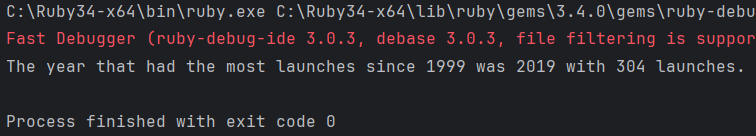
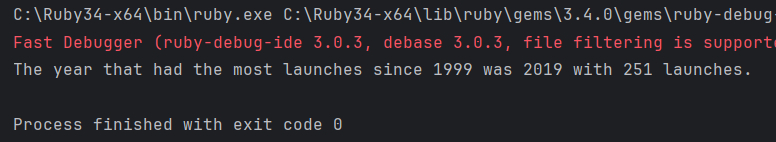
Major update: was not filtering out duplicates before; had to use cell's toString to create keys and use the cell object as value in the hash, then updated all methods to reflect this. Updated README.md to reflect new results caused by this.

diff --git a/main/Ruby/cell.rb b/main/Ruby/cell.rb
@@ -39,7 +39,15 @@ class Cell
     @launch_announced = launch_announced[/\b\d{4}\b/]&.to_i # Captures first occurrence of 4-digit year, if any.
     @launch_status = launch_status[/(?:Discontinued|Cancelled|Available\. Released \d{4})/]
     # Captures "Discontinued", "Cancelled", and "Available. Released <4-digit year>", ignores later characters.
-    @launch_year = launch_status[/\d{4}/]# grabs the first four-digit year from launch status
+    if (@launch_status != "Discontinued") && (@launch_status != "Cancelled")
+      @launch_year = @launch_status.to_s[/\d{4}/]# grabs the first four-digit year from launch status
+    elsif @launch_status == "Discontinued"
+      if match = launch_announced.match(/Released .*?(\b\d{4}\b)/)
+        @launch_year = match[1]
+      else
+        @launch_year = @launch_announced
+      end
+    end
 =begin
     if launch_year.nil?
       puts "year nil because status is #{launch_status}"
@@ -57,25 +65,26 @@ class Cell
     @features_sensors = features_sensors[/(?=.*[A-Za-z]).+/]# Allows all strings that contain at least one letter
     @platform_os = platform_os[/(?=.*[A-Za-z]).+/]# Allows all strings that contain at least one letter
 
-    @@cell_data[self] = oem
+    @@cell_data[self.toString] = self
     
   end
 
   def toString
-    puts "OEM: #{@oem}, Model: #{@model}, Launch_Announced: #{@launch_announced}, Launch_Status: #{@launch_status},
+    str = "OEM: #{@oem}, Model: #{@model}, Launch_Announced: #{@launch_announced}, Launch_Status: #{@launch_status},
 body_dimensions: #{@body_dimensions}, body_weight: #{@body_weight}, body_sim: #{@body_sim}, display_type: #{@display_type},
 display_size: #{@display_size}, display_resolution: #{@display_resolution}, features_sensors: #{@features_sensors},
 platform_os: #{@platform_os}"
+    return str
   end
 
   # Class methods to find the average of Launch_Announced, body_weight, and display_size:
 
-  # Puts the keys (Cell objects, each called a phone here) into an array if @launch_announced is not nil (.compact),
+  # Puts the values (Cell objects, each called a phone here) into an array if @launch_announced is not nil (.compact),
   # then checks if the array is not empty and divides the sum of the keys in float form by the size of the array.
   def Cell.find_average_launch_announced
-    keys = @@cell_data.keys.map{|phone| phone.launch_announced}.compact
-    if keys.any?
-      avg_launch = keys.sum.to_f / keys.size
+    values = @@cell_data.values.map{|phone| phone.launch_announced}.compact
+    if values.any?
+      avg_launch = values.sum.to_f / values.size
       avg_launch = avg_launch.to_i
       puts "Average year that launch was announced: #{avg_launch}"
     else
@@ -83,12 +92,12 @@ platform_os: #{@platform_os}"
     end
   end
 
-  # Puts the keys (Cell objects, each called a phone here) into an array if @body_weight is not nil (.compact),
-  # then checks if the array is not empty and divides the sum of the keys in float form by the size of the array.
+  # Puts the values (Cell objects, each called a phone here) into an array if @body_weight is not nil (.compact),
+  # then checks if the array is not empty and divides the sum of the values in float form by the size of the array.
   def Cell.find_average_weight
-    keys = @@cell_data.keys.map{|phone| phone.body_weight}.compact
-    if keys.any?
-      avg_weight = keys.sum.to_f / keys.size
+    values = @@cell_data.values.map{|phone| phone.body_weight}.compact
+    if values.any?
+      avg_weight = values.sum.to_f / values.size
       puts "Average weight: #{avg_weight.round(2)}"
     else
       puts "No body weight found"
@@ -96,11 +105,11 @@ platform_os: #{@platform_os}"
   end
 
   # Puts the keys (Cell objects, each called a phone here) into an array if @display_size is not nil (.compact),
-  # then checks if the array is not empty and divides the sum of the keys in float form by the size of the array.
+  # then checks if the array is not empty and divides the sum of the values in float form by the size of the array.
   def Cell.find_average_display_size
-    keys = @@cell_data.keys.map{|phone| phone.display_size}.compact
-    if keys.any?
-      avg_display_size = keys.sum.to_f / keys.size
+    values = @@cell_data.values.map{|phone| phone.display_size}.compact
+    if values.any?
+      avg_display_size = values.sum.to_f / values.size
       puts "Average display size: #{avg_display_size.round(2)}"
     else
       puts "No display size found"
@@ -113,7 +122,7 @@ platform_os: #{@platform_os}"
     max_avg = 0
     max_oem = ""
     oem_groups = Hash.new{|h,k| h[k] = []} # creates a new hash with OEMs as key and an array of weights as value
-    @@cell_data.each_key do |phone| # loop through the cell_data by key (Cell object)
+    @@cell_data.each_value do |phone| # loop through the cell_data by key (Cell object)
       next unless phone.body_weight # skips each phone if body_weight is nil
       oem_groups[phone.oem] << phone.body_weight # enters body_weight into the array for the OEM
     end
@@ -133,7 +142,7 @@ platform_os: #{@platform_os}"
   # Give me the oem and models.
   def Cell.announced_vs_released()
     dif = Array.new
-    @@cell_data.each_key do |phone|
+    @@cell_data.each_value do |phone|
       next unless phone.launch_announced
       next unless phone.launch_year
       if phone.launch_announced.to_i != phone.launch_year.to_i
@@ -150,7 +159,7 @@ platform_os: #{@platform_os}"
   def Cell.count_of_features_sensors
     count_one = 0 # The count of phones with only one sensor
     count_multiple = 0 # The count of phones with multiple sensors, for debugging purposes only
-    @@cell_data.each_key do |phone| # looping through cell_data
+    @@cell_data.each_value do |phone| # looping through cell_data
       next unless phone.features_sensors # filters out nil, but all phones have valid features_sensors in cells.csv
       str = phone.features_sensors.to_s.split(",") # array of features_sensors split by ","
       if str.length == 1
@@ -168,7 +177,7 @@ platform_os: #{@platform_os}"
     max_year = 0
     max_count = 0
     years = Hash.new{|h,k| h[k] = 0} # new hash with years as key and count as value, default being 0 instead of nil
-    @@cell_data.each_key do |phone| # looping through cell_data
+    @@cell_data.each_value do |phone| # looping through cell_data
       next unless phone.launch_announced # skip phone if launch_year is nil
       years[phone.launch_announced] += 1 # increment value stored in the key by 1
     end
@@ -190,11 +199,11 @@ CSV.foreach("cells.csv", headers: true) do |row|
   vals += [""] * (12 - vals.size)
   Cell.new(*vals[0...12])
 end
-Cell.count_of_features_sensors
+#Cell.count_of_features_sensors
 #Cell.count_of_launch_years
 #Cell.find_average_launch_announced
 #Cell.find_average_weight
 #Cell.find_average_display_size
 #Cell.avg_weight_by_oem
 #Cell.announced_vs_released
-# puts Cell.cell_data.size
+#puts Cell.cell_data.size

diff --git a/README.md b/README.md
@@ -56,43 +56,36 @@ for that.
 #### What company (oem) has the highest average weight of the phone body?
 HP had the highest average weight (453.6 grams).
 
-Code used to find this answer:
-
-![A screenshot of the code of the Cell.avg_weight_by_oem method](avg_weight_by_oem_code.png)
-
 Output:
 
 ![A screenshot showing the output, "The company with the highest average weight is HP at 453.6 grams."](avg_weight_by_oem_output.png)
 
 #### Were there any phones that were announced in one year and released in another? What are they? Give me the oem and models.
-The Motorola One Hyper, the Motorola Razr 2019, the Xiaomi Redmi K30 5G, and the Xiaomi Mi Mix Alpha were all
-announced in 2019 but launched in 2020.
+Mitac: the MIO Leap G50 and MIO Leap K1 were announced in  2008, launched in 2009.
 
-Code used to find this answer:
+Motorola: the One Hyper and Razr 2019 were announced in 2019, launched in 2020; the XT701 was announced
+in 2009, launched in 2010.
 
-![A screenshot of the code for Cell.announced_vs_released](announced_released_code.png)
+Sharp: the AQUOS 941SH and 940SH were announced in 2009, launched in 2010.
+
+Xiaomi: the Redmi K30 5G was announced in 2019, launched in 2020.
+
 
 Output:
 
-![A screenshot showing output Motorola One Hyper, Motorola Razr 2019, Xiaomi Redmi K30 5G, and Xiaomi Mi Mix Alpha](announced_released_output.png)
+![A screenshot showing output of 8 phones with OEM, Model, year announced, and year launched](announced_released_output.png)
 
 #### How many phones have only one feature sensor?
-432 phones only have one feature sensor.
+419 phones only have one feature sensor.
 
-Code used to find this answer:
-
-![Screenshot of the code for Cell.count_of_feature_sensors](count_features_code.png)
 
 Output:
 
 ![Screenshot showing output 432 phones have only one feature 568 phones have multiple](count_features_output.png)
 
 #### What year had the most phones launched in any year later than 1999? 
-2019 had the most launches since 1999, with 304 launches.
+2019 had the most launches since 1999, with 251 launches.
 
-Code used to find this answer:
-
-![](count_launch_years_code.png)
 
 Output:
 
